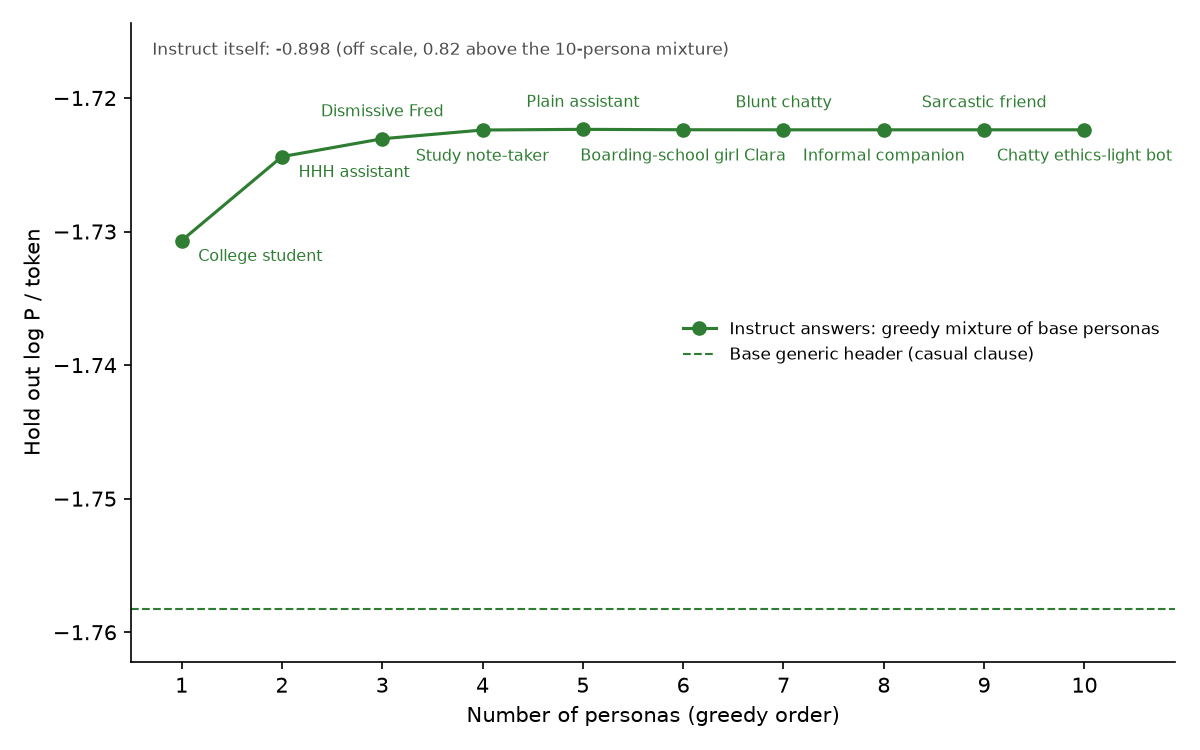
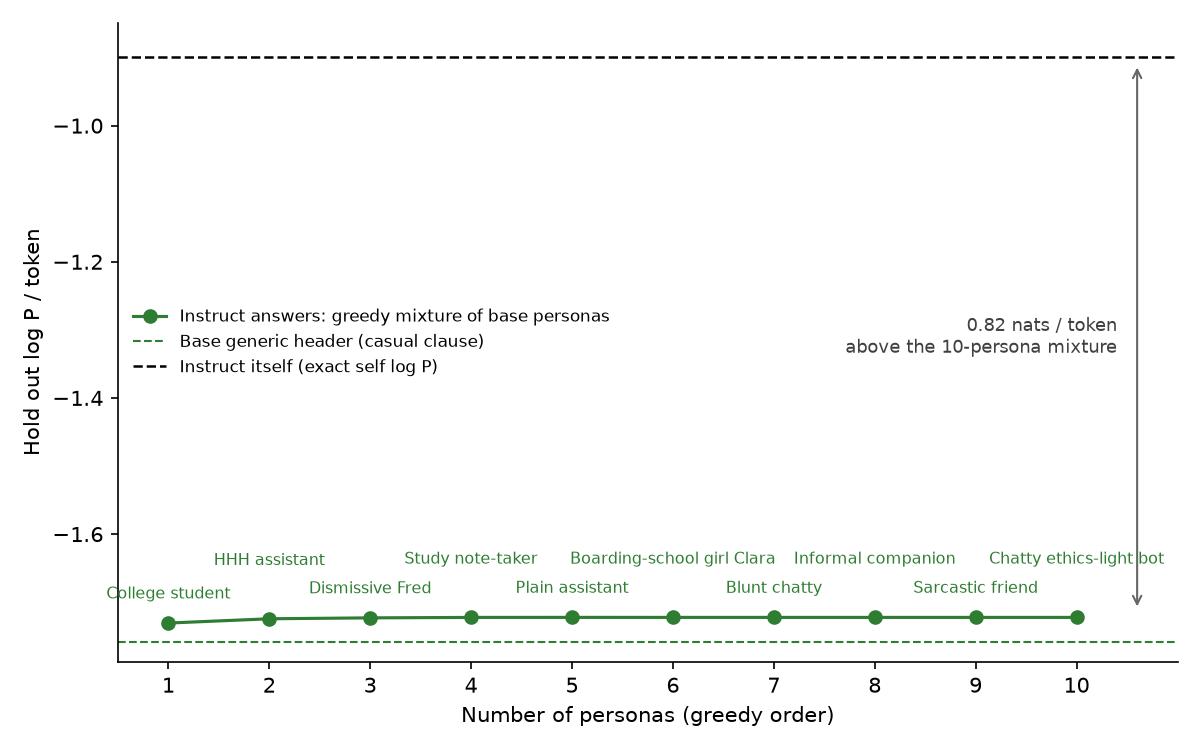
Instruct elbow: full y range with the Instruct self-score line and a gap arrow; labels above the curve; caption updated

diff --git a/scripts/phase1_loglik_table.py b/scripts/phase1_loglik_table.py
@@ -144,15 +144,15 @@ def elbow_instruct(max_k=10, seed=0, test_frac=0.5):
     ks = [c["k"] for c in curve]; ys = [c["heldout_logp_per_token"] for c in curve]
     ax.plot(ks, ys, marker="o", color=color, label="Instruct answers: greedy mixture of base personas")
     ax.axhline(generic, color=color, ls="--", lw=1, label="Base generic header (casual clause)")
-    for n, c in enumerate(curve):
-        up = (n % 2 == 0)
-        if c["k"] <= 2: ax.annotate(cap(c["label"]), (c["k"], c["heldout_logp_per_token"]), textcoords="offset points", xytext=(8, -4), ha="left", va="top", fontsize=7.5, color=color)
-        else: ax.annotate(cap(c["label"]), (c["k"], c["heldout_logp_per_token"]), textcoords="offset points", xytext=(0, 9 if up else -9), ha="center", va="bottom" if up else "top", fontsize=7.5, color=color)
+    for n, c in enumerate(curve):   # the curve is flat at this scale: all labels above it, at two alternating heights
+        ax.annotate(cap(c["label"]), (c["k"], c["heldout_logp_per_token"]), textcoords="offset points", xytext=(0, 10 if n % 2 == 0 else 24), ha="center", va="bottom", fontsize=7.5, color=color)
     if self_exact is not None:
-        ax.annotate(f"Instruct itself: {self_exact:.3f} (off scale, {self_exact - ys[-1]:.2f} above the 10-persona mixture)", xy=(0.02, 0.97), xycoords="axes fraction", ha="left", va="top", fontsize=8, color="0.3")
-    ax.set_xlabel("Number of personas (greedy order)"); ax.set_ylabel("Hold out log P / token"); ax.set_xticks(range(1, max_k + 1)); ax.set_xlim(0.5, max_k + 0.9)
-    ax.set_ylim(generic - 0.004, max(ys) + 0.008)
-    ax.legend(fontsize=8, frameon=False, loc="center right"); ax.spines[["top", "right"]].set_visible(False); plt.tight_layout()
+        ax.axhline(self_exact, color="black", ls="--", lw=1.2, label="Instruct itself (exact self log P)")
+        xa = 10.6; ax.annotate("", xy=(xa, self_exact - 0.01), xytext=(xa, ys[-1] + 0.01), arrowprops=dict(arrowstyle="<->", color="0.4", lw=1))
+        ax.annotate(f"{self_exact - ys[-1]:.2f} nats / token\nabove the 10-persona mixture", xy=(xa - 0.2, (self_exact + ys[-1]) / 2), ha="right", va="center", fontsize=8.5, color="0.25")
+    ax.set_xlabel("Number of personas (greedy order)"); ax.set_ylabel("Hold out log P / token"); ax.set_xticks(range(1, max_k + 1)); ax.set_xlim(0.5, max_k + 1.0)
+    ax.set_ylim(generic - 0.03, (self_exact if self_exact is not None else max(ys)) + 0.05)
+    ax.legend(fontsize=8, frameon=False, loc="center left"); ax.spines[["top", "right"]].set_visible(False); plt.tight_layout()
     fig.savefig("results/phase1/elbow_logp_instruct.png", dpi=150); json.dump({"generic": generic, "instruct_self_exact": self_exact, "curve": curve}, open("results/phase1/elbow_logp_instruct.json", "w"), indent=1); print("-> results/phase1/elbow_logp_instruct.png")
 
 

diff --git a/results_writeup.md b/results_writeup.md
@@ -72,7 +72,7 @@ Every *T* below 1 makes the fit worse, for the mixture, for every single persona
 
 ![Greedy elbow for the Instruct answers](results/phase1/elbow_logp_instruct.png)
 
-*Figure: greedy mixture of base personas (casual-clause headers) fitted to the Instruct model's answers, hold-out log P per token vs number of personas; dashed line = the base generic header; the Instruct model's own score (−0.898) is off the scale. The first two personas, the "college student" register and Askell's HHH assistant, do almost all of the work; the curve is flat after four, 0.82 nats per token below the Instruct model.*
+*Figure: greedy mixture of base personas (casual-clause headers) fitted to the Instruct model's answers, hold-out log P per token vs number of personas; green dashed line = the base generic header, black dashed line = the Instruct model scoring its own answers (−0.898). The first two personas, the "college student" register and Askell's HHH assistant, do almost all of the work; the curve is flat after four, and the whole climb from the generic header to the ten-persona mixture (0.036 nats per token) is small next to the 0.82 that separates the mixture from the Instruct model.*
 
 Three readings. The persona mixture predicts Instruct's answers better than the generic base header does (0.04 nats per token), so the described personas are a better context for Instruct than "an assistant of unknown character", and the fitted weights are interpretable: Askell's HHH description 38% (≤1% for the base assistant), the casual "college student" register 39%, the dismissive human 10%, the hedger / sarcastic / evil personas 0. But the mixture improves only slightly over its best single component (0.008 nats per token, paired 95% interval 0.007 to 0.010; the component is chosen on the fit half of the questions), and 0.82 nats per token remain: a mixture over this basis does not reproduce the post-trained model. Prediction A holds for the base assistant to within 0.006 nats per token and fails for the post-trained one by 0.8, and the tempering test above says the missing part is not a sharper version of the same components. A stronger version of the same test, learning a soft-prefix context for the base model instead of a mixture of descriptions, closes 43% of the gap and then plateaus at about 0.48 nats per token regardless of prefix length, learning rate, initialisation, data size or a literal 64-answer context, while the same procedure on the Instruct weights reaches 95% of its target (notebook 3.6 in the repository).
 
